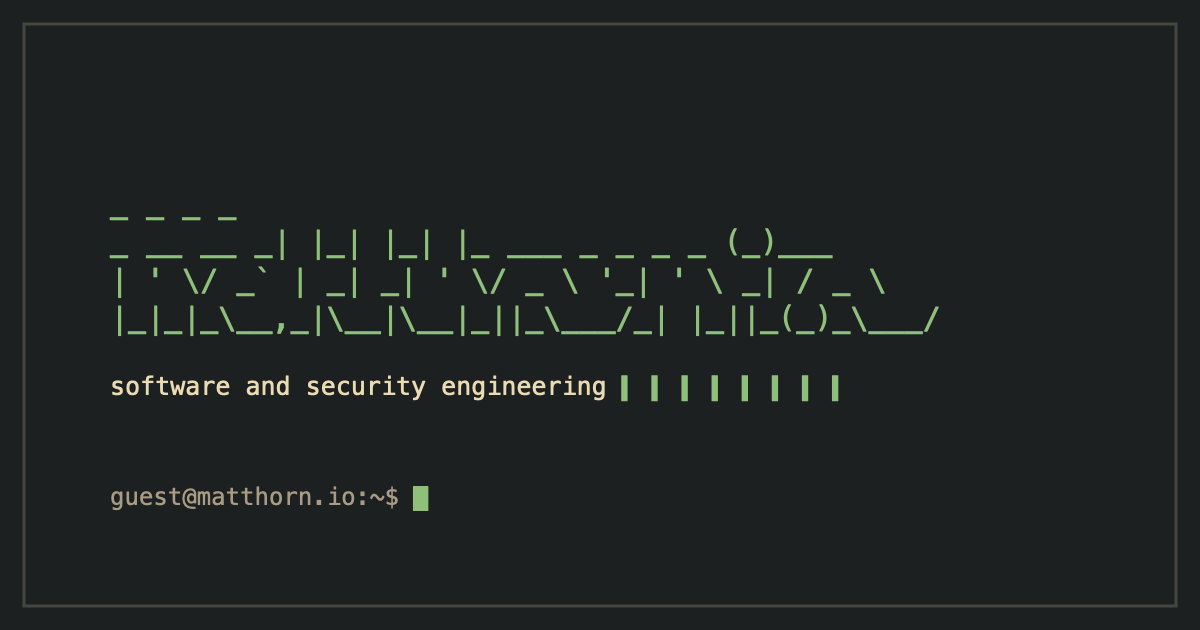
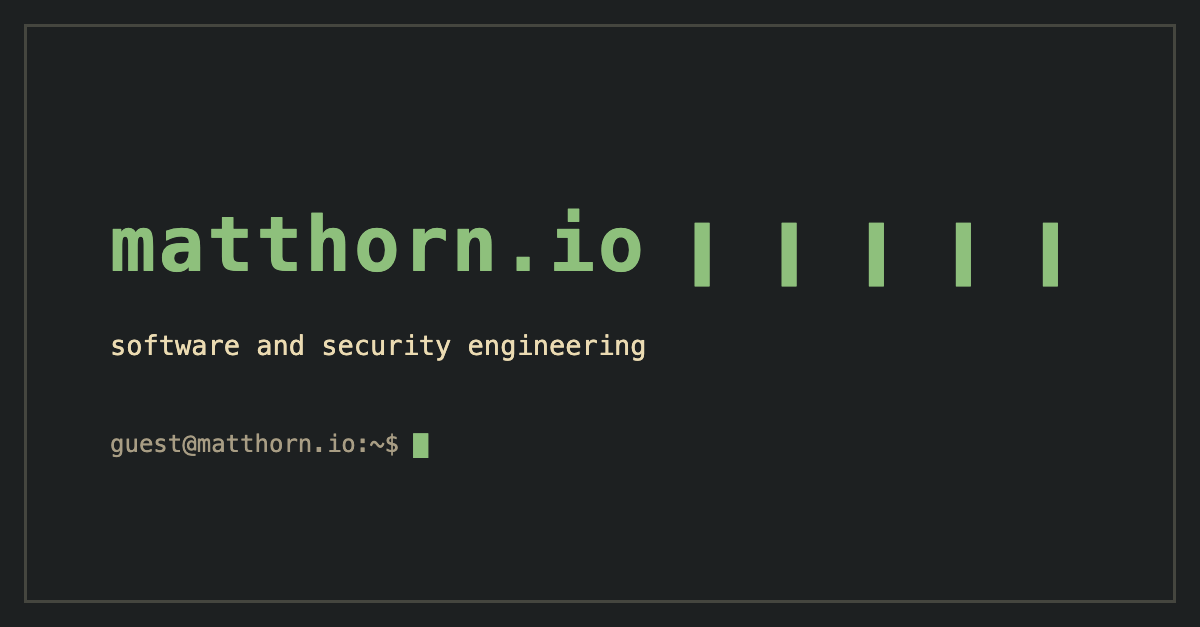
Fix the og card, correct third-party licensing, prune theme weight
The og image's ASCII art was garbled: Quick Look's SVG renderer
collapses space runs, and ASCII art is nothing but significant spaces.
The card is now rendered by headless Chrome from assets/og-image.html
at an exact 1200x627, built around the site's actual header identity
(matthorn.io + stripe) so it stays legible at thumbnail size; the home
page's og:image:height now agrees with the theme's 627.

Licensing corrections from an attribution audit: terminal-css is
public domain (Unlicense), not MIT as the vendored-CSS comments
claimed; labels fixed and NOTICE gains a third-party section
clarifying that CC BY-ND covers this repo's content while the theme
(MIT, license retained) and terminal-css remain under their own terms.
The theme's footer credit to panr stays live on every themed page.

Pruned from the vendored theme: the Fira Code woff2 files and
fonts.css (no rule references the family since the system-stack
change) and the theme's README screenshots; 1.1 MB off the repo,
themes/terminal now 244K.

diff --git a/assets/og-image.html b/assets/og-image.html
@@ -1,0 +1,20 @@
+<!doctype html>
+<!-- Source for static/og-image.png. Regenerate (exact 1200x627, no crop):
+       "/Applications/Google Chrome.app/Contents/MacOS/Google Chrome" \
+         --headless --screenshot=static/og-image.png \
+         --window-size=1200,627 --hide-scrollbars assets/og-image.html -->
+<html><head><meta charset="utf-8"><style>
+  html, body { margin: 0; width: 1200px; height: 627px; background: #1d2021; overflow: hidden; }
+  .frame { position: absolute; top: 24px; left: 24px; right: 24px; bottom: 24px;
+           border: 3px solid #45463f; }
+  div { font-family: Menlo, Consolas, monospace; position: absolute; left: 110px; }
+  .name { top: 200px; color: #8ec07c; font-size: 76px; font-weight: bold; letter-spacing: .04em; }
+  .name span { font-weight: normal; font-size: 62px; letter-spacing: .1em; }
+  .sub { top: 330px; color: #ebdbb2; font-size: 27px; }
+  .prompt { top: 430px; color: #a89d84; font-size: 24px; }
+  b { color: #8ec07c; font-weight: normal; }
+</style></head><body><div class="frame"></div>
+<div class="name">matthorn.io <span>▍ ▍ ▍ ▍ ▍</span></div>
+<div class="sub">software and security engineering</div>
+<div class="prompt">[email redacted]:~$ <b>█</b></div>
+</body></html>

diff --git a/assets/css/tui.css b/assets/css/tui.css
@@ -1,6 +1,6 @@
 /* matthorn.io terminal home. Layers:
    1. Pistachio preset variables (panr/terminal-css presets.json)
-   2. panr/terminal-css standalone.css, verbatim (MIT)
+   2. panr/terminal-css standalone.css, verbatim (public domain / Unlicense)
    3. headings "one size" component, verbatim
    4. the TUI layout layer */
 

diff --git a/layouts/index.html b/layouts/index.html
@@ -20,7 +20,7 @@
 <meta property="og:site_name" content="{{ site.Title }}">
 <meta property="og:image" content="{{ "og-image.png" | absURL }}">
 <meta property="og:image:width" content="1200">
-<meta property="og:image:height" content="630">
+<meta property="og:image:height" content="627">
 <meta name="twitter:card" content="summary_large_image">
 {{ with .OutputFormats.Get "rss" -}}
 <link rel="alternate" type="application/rss+xml" href="{{ .Permalink }}" title="{{ site.Title }}">